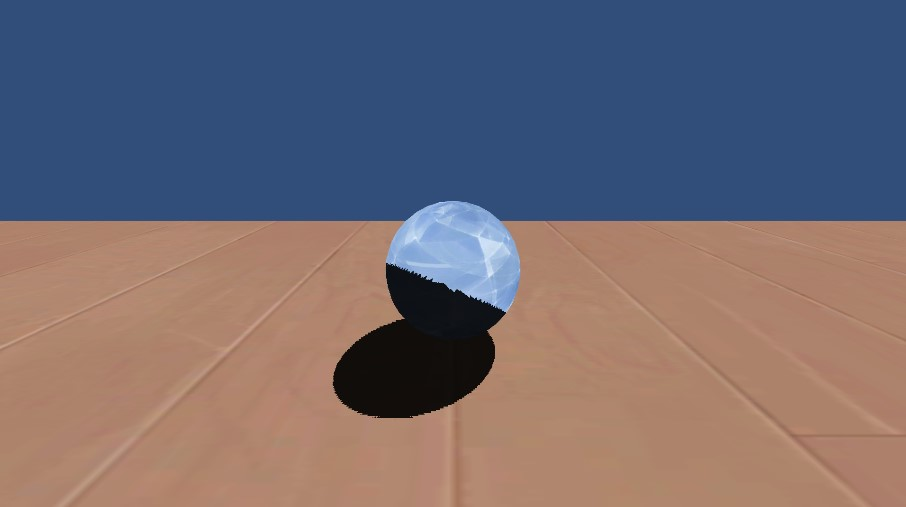
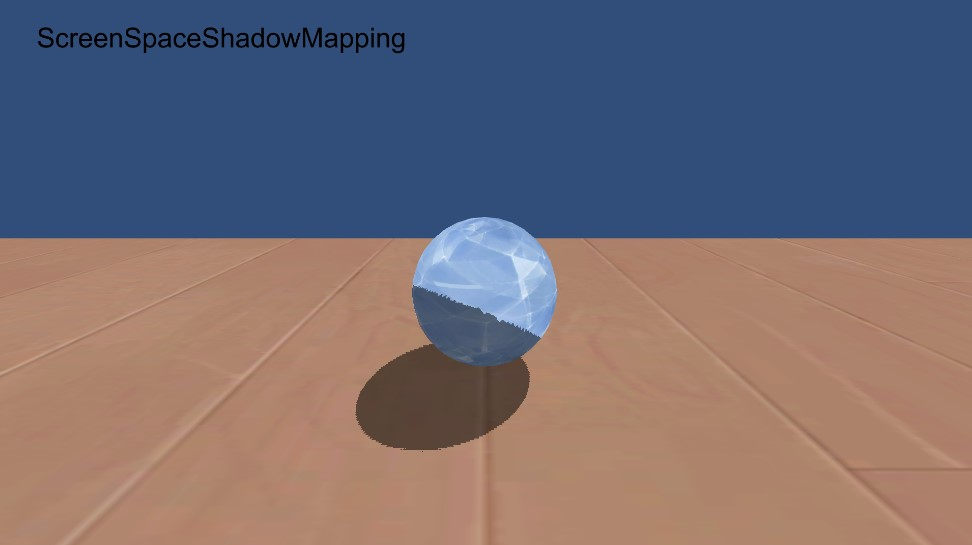
优化屏幕空间阴影

diff --git a/Assets/Script/ScreenSpaceShadowMap/ScreenSpaceShadowMap.cs b/Assets/Script/ScreenSpaceShadowMap/ScreenSpaceShadowMap.cs
@@ -13,6 +13,8 @@ public class ScreenSpaceShadowMap : MonoBehaviour {
     public float orthographicSize = 6f;
     public float nearClipPlane = 0.3f;
     public float farClipPlane = 20f;
+    public float shadowBias = 0.005f;
+    public float shadowStrength = 0.5f;
 
     public static Camera _depthCamera;
     RenderTexture depthTexture = null;
@@ -92,8 +94,9 @@ public class ScreenSpaceShadowMap : MonoBehaviour {
 
     private RenderTexture CreateTextureFor(Camera cam)
     {
-        RenderTexture rt = new RenderTexture(Screen.width * qulity, Screen.height * qulity, 24, RenderTextureFormat.Default);
-        rt.hideFlags = HideFlags.DontSave;        
+        RenderTexture rt = new RenderTexture(Screen.width * qulity, Screen.height * qulity, 24, RenderTextureFormat.R8);
+        rt.hideFlags = HideFlags.DontSave;
+        rt.autoGenerateMips = false;
 
         return rt;
     }
@@ -115,18 +118,6 @@ public class ScreenSpaceShadowMap : MonoBehaviour {
             _depthCamera.transform.localRotation = Quaternion.identity;
         }
 
-
-        //if (posWorld_rt == null)
-        //{
-        //    posWorld_rt = new RenderTexture(Screen.width, Screen.height, 24, RenderTextureFormat.ARGBFloat);
-        //}
-
-        //_depthCamera.targetTexture = posWorld_rt;
-
-        //_depthCamera.RenderWithShader(posWorldMat.shader, "");
-
-        //_depthCamera.targetTexture = depth_rt;
-
         _depthCamera.RenderWithShader(shadowCasterMat.shader, "");
 
         if (!_lightCamera)
@@ -141,6 +132,8 @@ public class ScreenSpaceShadowMap : MonoBehaviour {
         _lightCamera.orthographicSize = orthographicSize;
         _lightCamera.nearClipPlane = nearClipPlane;
         _lightCamera.farClipPlane = farClipPlane;
+        Shader.SetGlobalFloat("_gShadowBias", shadowBias);
+        Shader.SetGlobalFloat("_gShadowStrength", shadowStrength);
 
         _lightCamera.RenderWithShader(shadowCasterMat.shader, "");
 
@@ -148,8 +141,9 @@ public class ScreenSpaceShadowMap : MonoBehaviour {
         // shadow collector
         if (screenSpaceShadowTexture == null)
         {
-            screenSpaceShadowTexture = new RenderTexture(Screen.width * qulity, Screen.height * qulity, 0, RenderTextureFormat.Default);
+            screenSpaceShadowTexture = new RenderTexture(Screen.width * qulity, Screen.height * qulity, 0, RenderTextureFormat.R8);
             screenSpaceShadowTexture.hideFlags = HideFlags.DontSave;
+            screenSpaceShadowTexture.autoGenerateMips = false;
         }
 
         Matrix4x4 projectionMatrix = GL.GetGPUProjectionMatrix(Camera.main.projectionMatrix, false);
@@ -157,11 +151,11 @@ public class ScreenSpaceShadowMap : MonoBehaviour {
 
         shadowCollectorMat.SetTexture("_CameraDepthTex", depthTexture);
         shadowCollectorMat.SetTexture("_LightDepthTex", lightDepthTexture);
+        projectionMatrix = GL.GetGPUProjectionMatrix(_lightCamera.projectionMatrix, false);
+        Shader.SetGlobalMatrix("_WorldToShadow", projectionMatrix * _lightCamera.worldToCameraMatrix);
         Graphics.Blit(depthTexture, screenSpaceShadowTexture, shadowCollectorMat);
 
         Shader.SetGlobalTexture("_ScreenSpceShadowTexture", screenSpaceShadowTexture);
 
-        projectionMatrix = GL.GetGPUProjectionMatrix(_lightCamera.projectionMatrix, false);
-        Shader.SetGlobalMatrix("_WorldToShadow", projectionMatrix * _lightCamera.worldToCameraMatrix);
     }
 }
